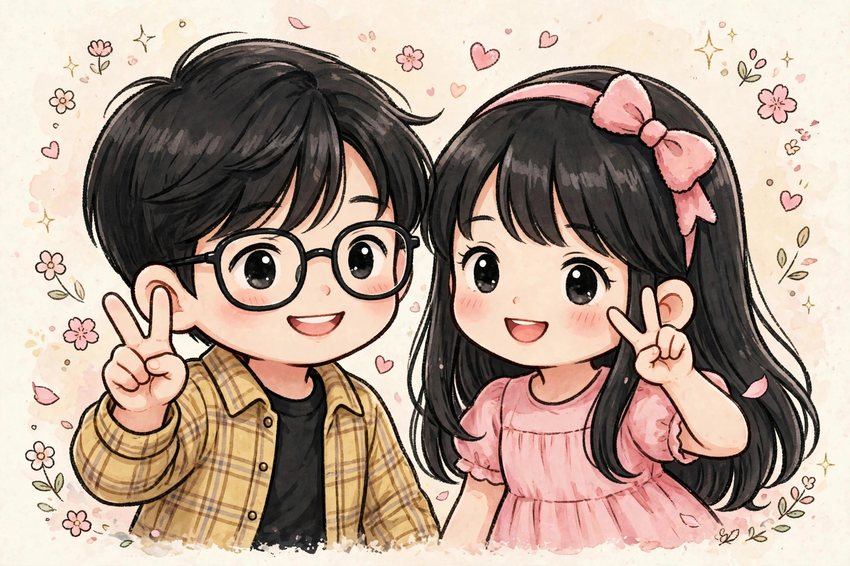
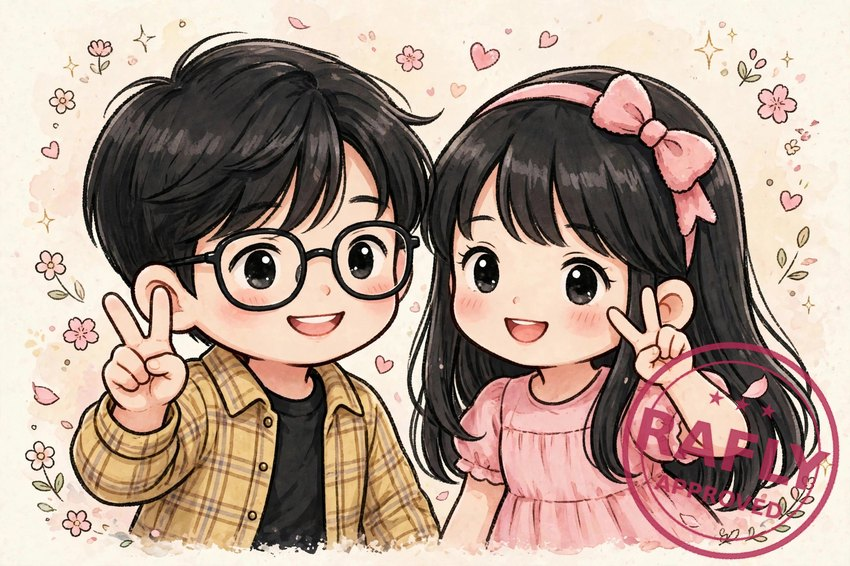
Add RAFLY APPROVED stamp to the peace selfie

Changed region(s): [[0.7341, 0.6007, 1.0, 0.9912], [0.8259, 0.6908, 0.8871, 0.7208]]

diff --git a/pesan.html b/pesan.html
@@ -82,7 +82,7 @@
     </div>
     <div class="sign">— Rafly</div>
     <div class="center" style="margin-top:20px">
-      <div class="cutout floaty" style="--r:-1.5deg;max-width:340px"><div class="mini-tape"></div><img loading="lazy" decoding="async" src="img/surat_selfie.jpg" alt="Selfie berdua sambil peace"><div class="cap">ciss, peace dari kita berdua</div></div>
+      <div class="cutout floaty" style="--r:-1.5deg;max-width:340px"><div class="mini-tape"></div><img loading="lazy" decoding="async" src="img/surat_selfie.jpg?v=2" alt="Selfie berdua sambil peace"><div class="cap">ciss, peace dari kita berdua</div></div>
     </div>
   </section>
 
